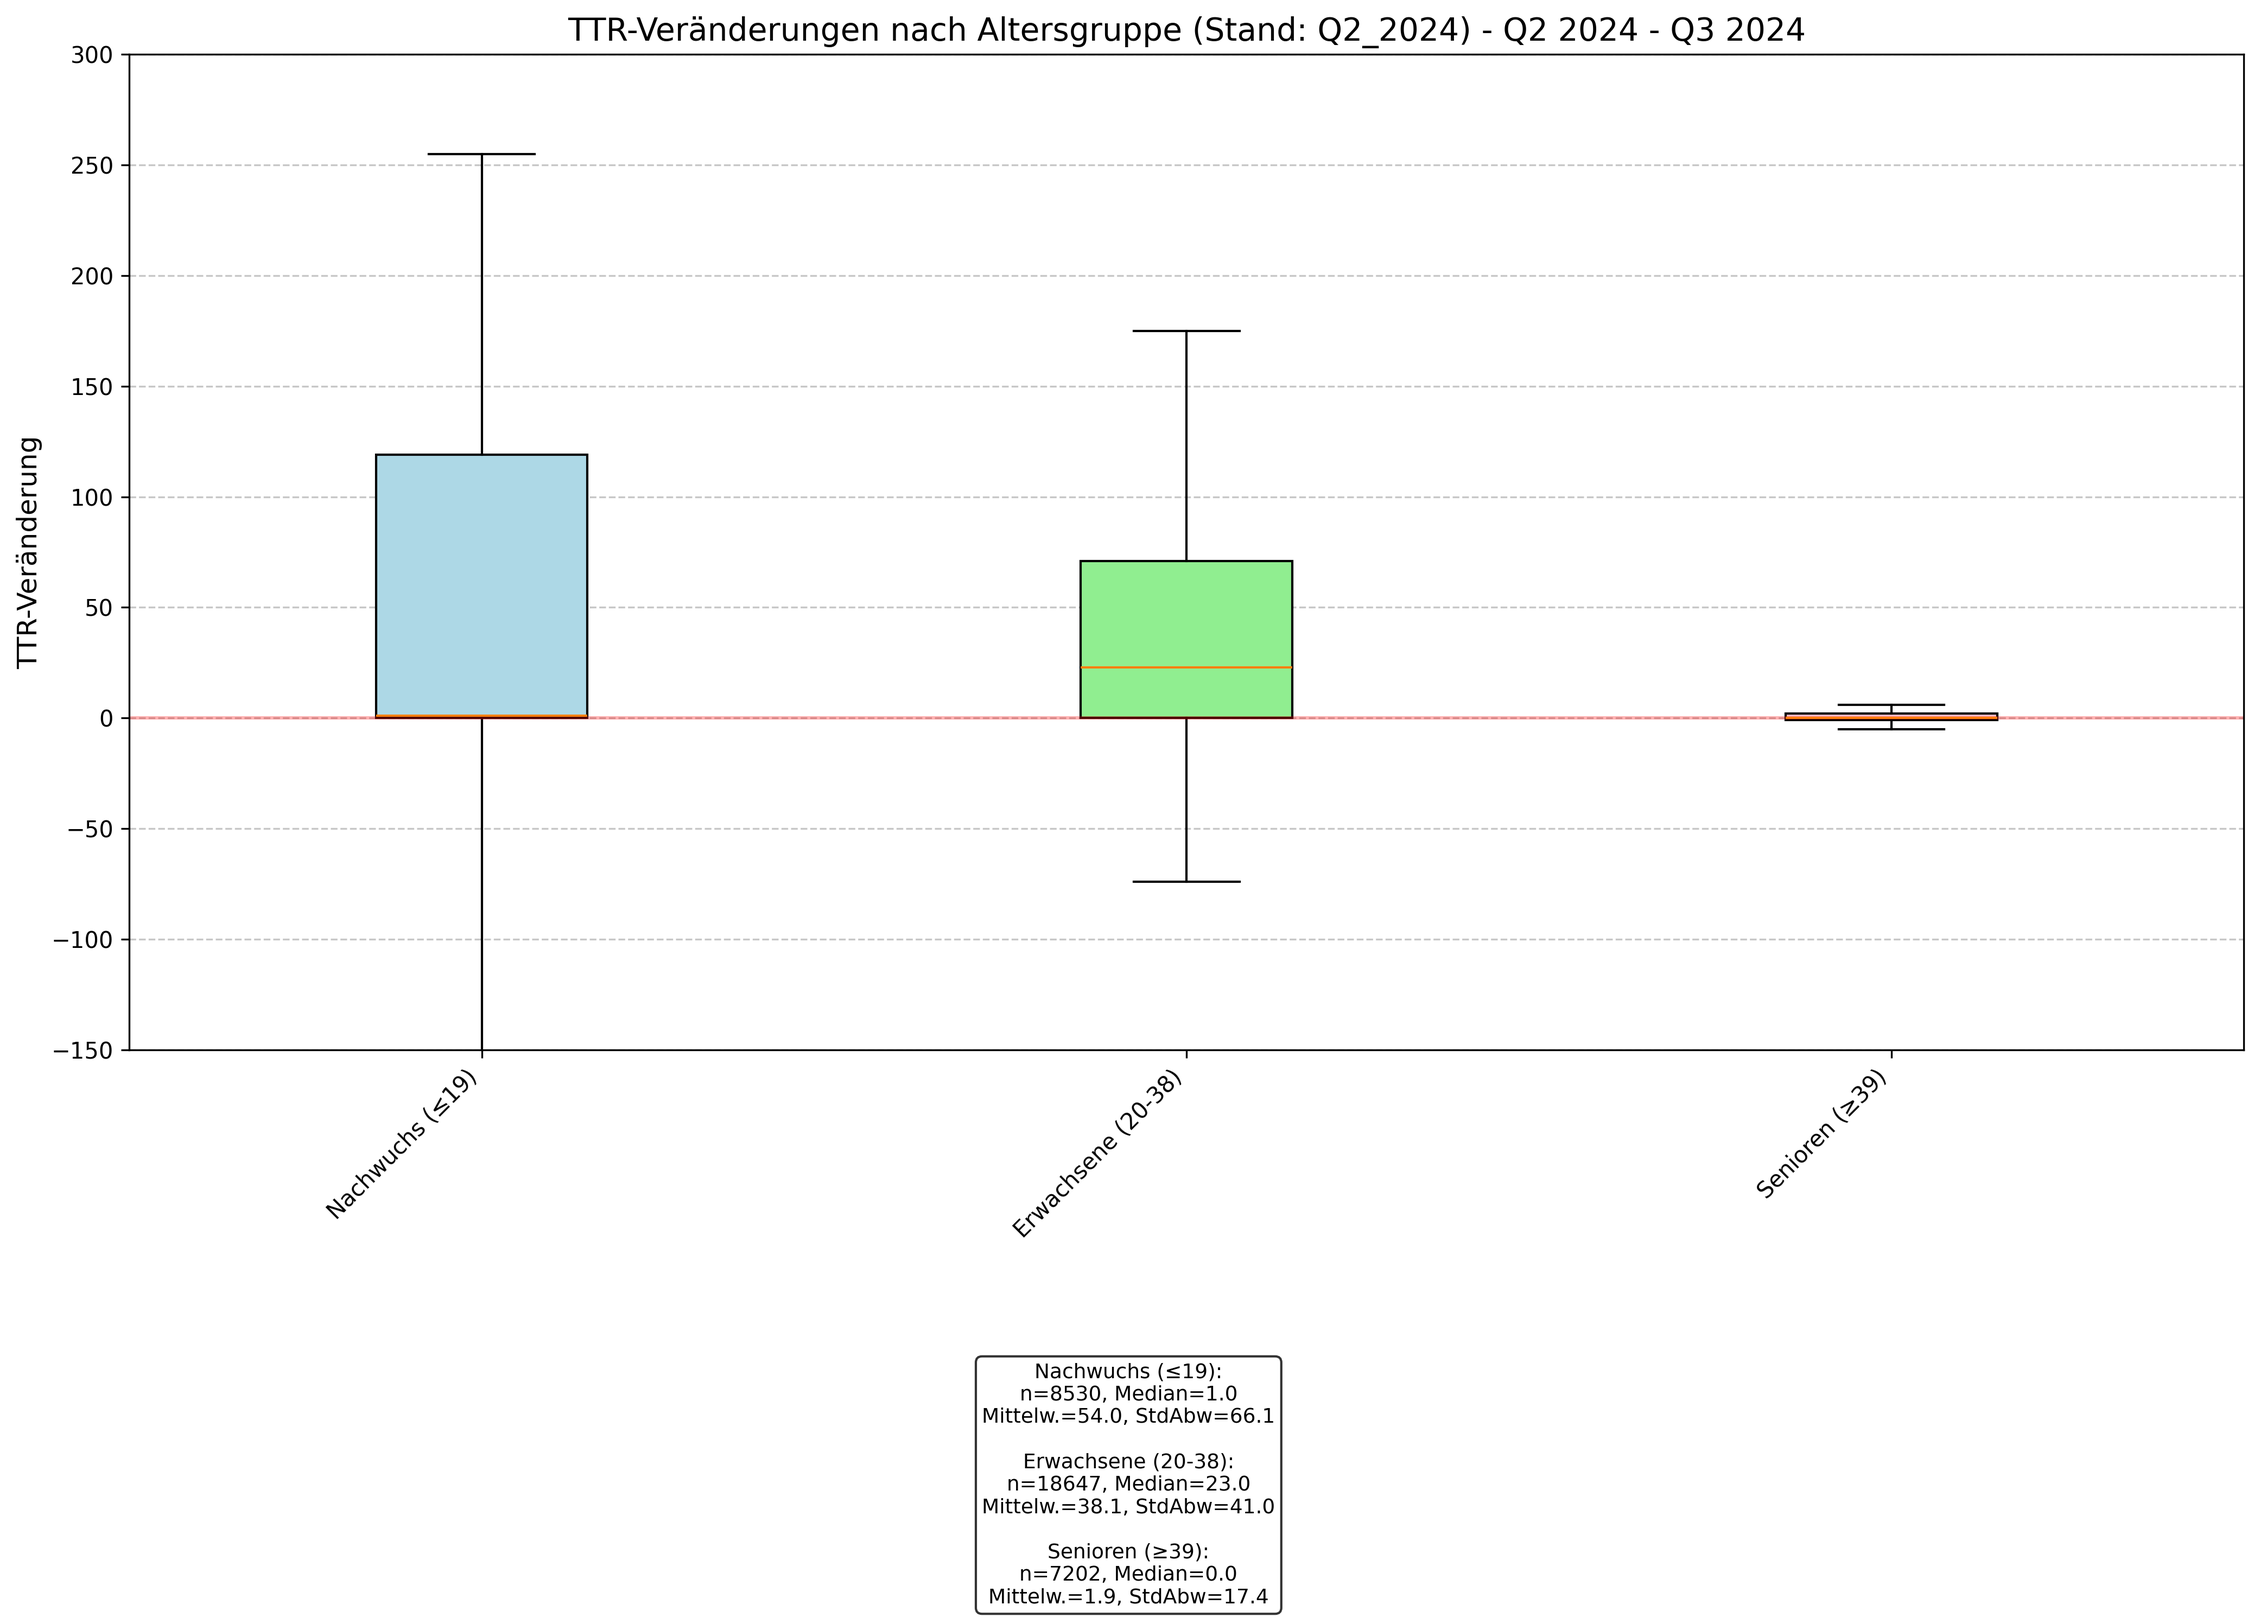
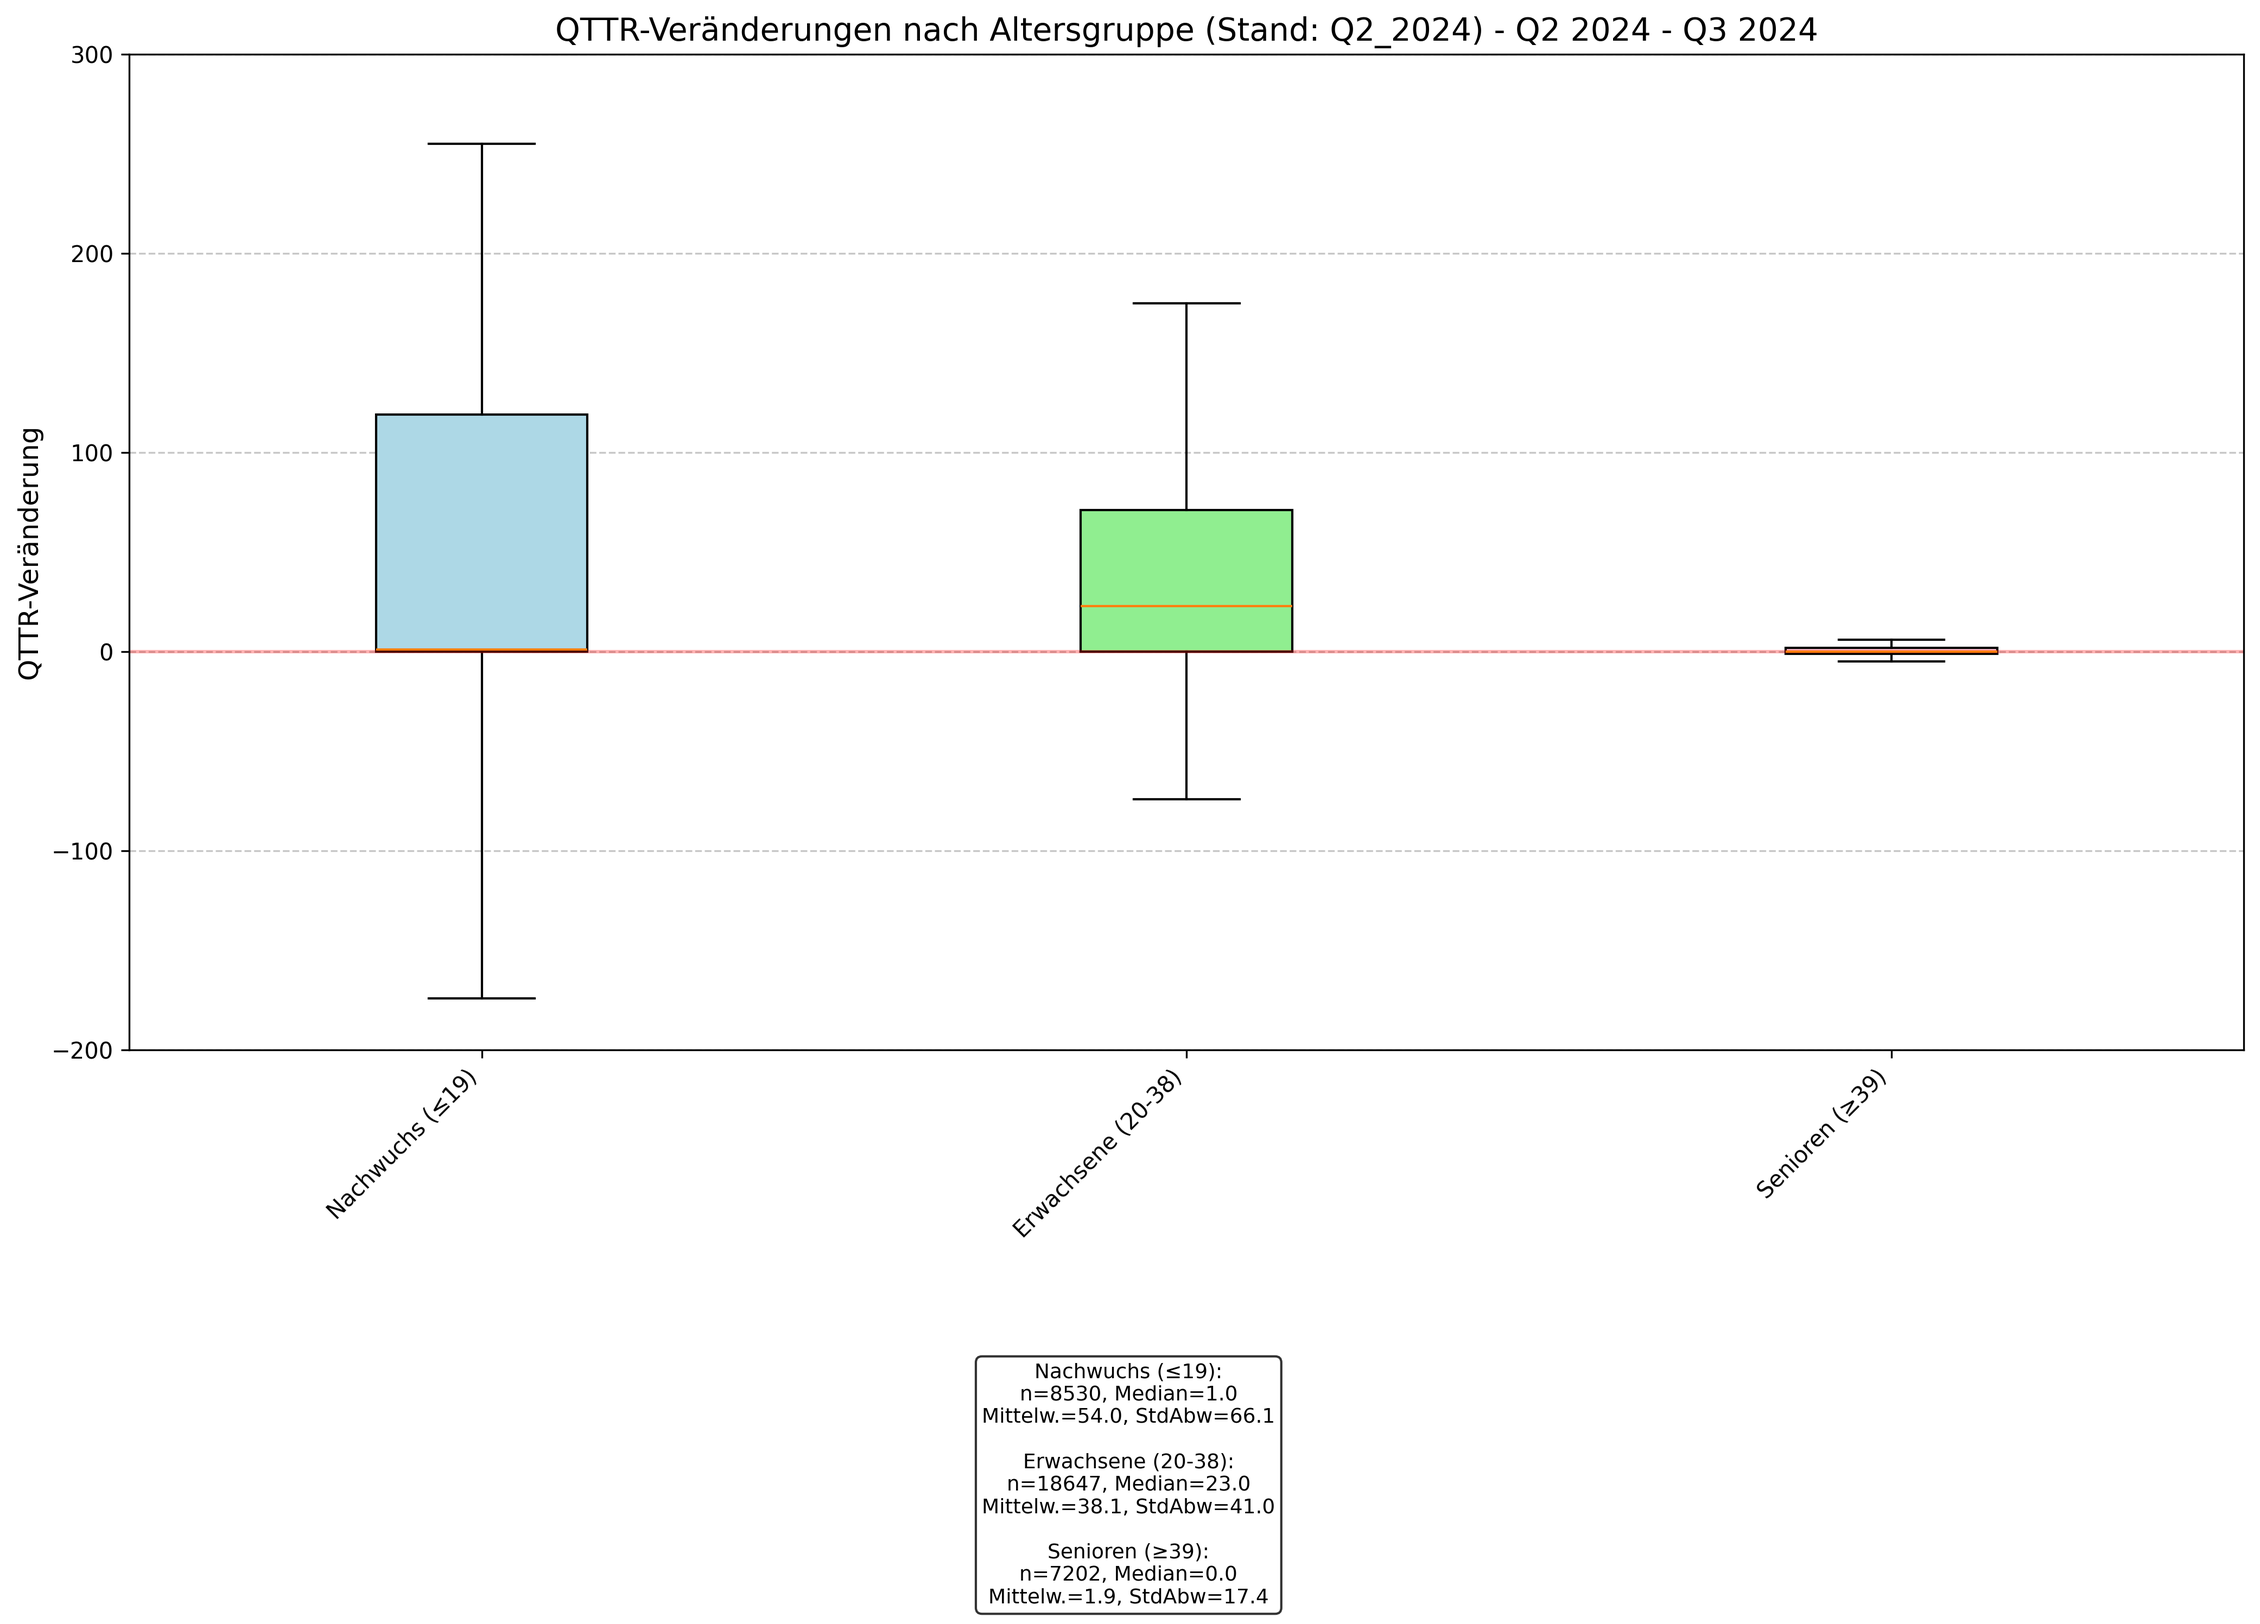
docu(Graphen & Docu): Verbesserte Graphen und die Markdown doku dazu

diff --git a/Documentation/Docu_QTTR-differenzen.md b/Documentation/Docu_QTTR-differenzen.md
@@ -1,0 +1,102 @@
+# **Identifikation großer QTTR-Veränderugnen**
+
+## **QTTR-Veränderung in den Zeiträummen**
+
+
+#### **Boxplot**
+![QTTR-Veränderung in den Zeiträummen | Boxplot](/Users/fabi/Documents/BBA/6_Semester/Projekt_BBA/QTTR-Veraenderungen-Klemm/Data_Analysis/Darstellungen_als_Bilder/QTTR_Veränderungen_in_Zeiträumen.png)
+
+
+#### **Barchart**
+![QTTR-Veränderung in den Zeiträummen | Barchart](/Users/fabi/Documents/BBA/6_Semester/Projekt_BBA/QTTR-Veraenderungen-Klemm/Data_Analysis/Darstellungen_als_Bilder/QTTR_Veränderungen_in_Zeiträumen_Barchart.png)
+
+
+---
+
+## **QTTR-Veränderung innerhalb der Altergruppen**
+
+**Altersgruppen:**
+- Nachwuchs (≤19)
+- Erwachsene (20-38)
+- Senioren (≥39)
+
+*Hierbei werden die stärksten Veränderungszeiträume angezeigt**
+
+#### **Q1 2024 - Q1 2025 | Ein Jahr Abstand**
+![QTTR-Veränderung innerhalb der Altersgruppen | Boxplot](/Users/fabi/Documents/BBA/6_Semester/Projekt_BBA/QTTR-Veraenderungen-Klemm/Data_Analysis/Darstellungen_als_Bilder/altersgruppe_Q1_2024_Q_TTR_dif_24_Q1_25_Q1.png)
+
+#### **Q1 - Q3 2024 | Halbe Jahr Abstand**
+![QTTR-Veränderung innerhalb der Altersgruppen | Boxplot](/Users/fabi/Documents/BBA/6_Semester/Projekt_BBA/QTTR-Veraenderungen-Klemm/Data_Analysis/Darstellungen_als_Bilder/altersgruppe_Q1_2024_Q_TTR_dif_24_Q1_24_Q3.png)
+*Die Veränderung von Q1 auf Q2 im Jahr 2024 ist sehr gering. Die größte Veränderung ist in der Darauffolgenden Darstellung zwischen Q2 - Q3 zu erkennen*
+
+#### **Q2 - Q3 2024 | Quartals Abstand**
+![QTTR-Veränderung innerhalb der Altersgruppen | Boxplot](/Users/fabi/Documents/BBA/6_Semester/Projekt_BBA/QTTR-Veraenderungen-Klemm/Data_Analysis/Darstellungen_als_Bilder/altersgruppe_Q2_2024_Q_TTR_dif_24_Q2_24_Q3.png)
+
+
+---
+
+## **QTTR-Veränderung innerhalb der QTTR Gruppen**
+
+**QTTR Gruppen:**
+- < 700
+- 700 - 1099
+- 1100 - 1399
+- 1400 - 1799
+- 1800 - 2199
+- 2200 +
+
+*Hierbei werden die stärksten Veränderungszeiträume angezeigt**
+
+#### **Q1 2024 - Q1 2025 | Ein Jahr Abstand**
+![QTTR-Veränderung innerhalb der QTTR-Gruppe | Boxplot](/Users/fabi/Documents/BBA/6_Semester/Projekt_BBA/QTTR-Veraenderungen-Klemm/Data_Analysis/Darstellungen_als_Bilder/ttr_gruppen_Q_TTR_dif_24_Q1_25_Q1.png)
+
+#### **Q1 - Q3 2024 | Halbe Jahr Abstand**
+![QTTR-Veränderung innerhalb der QTTR-Gruppe | Boxplot](/Users/fabi/Documents/BBA/6_Semester/Projekt_BBA/QTTR-Veraenderungen-Klemm/Data_Analysis/Darstellungen_als_Bilder/ttr_gruppen_Q_TTR_dif_24_Q1_24_Q3.png)
+*Die Veränderung von Q1 auf Q2 im Jahr 2024 ist sehr gering. Die größte Veränderung ist in der Darauffolgenden Darstellung zwischen Q2 - Q3 zu erkennen*
+
+#### **Q2 - Q3 2024 | Quartals Abstand**
+![QTTR-Veränderung innerhalb der QTTR-Gruppe | Boxplot](/Users/fabi/Documents/BBA/6_Semester/Projekt_BBA/QTTR-Veraenderungen-Klemm/Data_Analysis/Darstellungen_als_Bilder/ttr_gruppen_Q_TTR_dif_24_Q2_24_Q3.png)
+
+
+---
+
+## **QTTR-Veränderung innerhalb der Verbände**
+
+**Verbände**
+- Ausland
+- TTBW
+- Saarland
+- Nordrhein-Westfalen
+- Hessen
+- Bayern
+- Bremen
+- Rheinland-Rheinhessen
+- Thüringen
+- Berlin
+- Baden
+- Sachsen
+- Pfalz
+- Niedersachsen
+- Schleswig-Holstein
+- Brandenburg 
+- Hamburg
+- Sachsen-Anhalt
+- Mecklenburg-Vorpommern
+
+*Hierbei werden die stärksten Veränderungszeiträume angezeigt**
+
+#### **Q1 2024 - Q1 2025 | Ein Jahr Abstand**
+![QTTR-Veränderung innerhalb der Verbände | Boxplot | Teil 1](/Users/fabi/Documents/BBA/6_Semester/Projekt_BBA/QTTR-Veraenderungen-Klemm/Data_Analysis/Darstellungen_als_Bilder/verband_teil1_Q_TTR_dif_24_Q1_25_Q1.png)
+
+![QTTR-Veränderung innerhalb der Verbände | Boxplot | Teil 2](/Users/fabi/Documents/BBA/6_Semester/Projekt_BBA/QTTR-Veraenderungen-Klemm/Data_Analysis/Darstellungen_als_Bilder/verband_teil2_Q_TTR_dif_24_Q1_25_Q1.png)
+
+#### **Q1 - Q3 2024 | Halbe Jahr Abstand**
+![QTTR-Veränderung innerhalb der Verbände | Boxplot | Teil 1](/Users/fabi/Documents/BBA/6_Semester/Projekt_BBA/QTTR-Veraenderungen-Klemm/Data_Analysis/Darstellungen_als_Bilder/verband_teil1_Q_TTR_dif_24_Q1_24_Q3.png)
+*Die Veränderung von Q1 auf Q2 im Jahr 2024 ist sehr gering. Die größte Veränderung ist in der Darauffolgenden Darstellung zwischen Q2 - Q3 zu erkennen*
+
+![QTTR-Veränderung innerhalb der Verbände | Boxplot | Teil 2](/Users/fabi/Documents/BBA/6_Semester/Projekt_BBA/QTTR-Veraenderungen-Klemm/Data_Analysis/Darstellungen_als_Bilder/verband_teil2_Q_TTR_dif_24_Q1_24_Q3.png)
+
+#### **Q2 - Q3 2024 | Quartals Abstand**
+![QTTR-Veränderung innerhalb der Verbände | Boxplot | Teil 1](/Users/fabi/Documents/BBA/6_Semester/Projekt_BBA/QTTR-Veraenderungen-Klemm/Data_Analysis/Darstellungen_als_Bilder/verband_teil1_Q_TTR_dif_24_Q2_24_Q3.png)
+
+![QTTR-Veränderung innerhalb der Verbände | Boxplot | Teil 2](/Users/fabi/Documents/BBA/6_Semester/Projekt_BBA/QTTR-Veraenderungen-Klemm/Data_Analysis/Darstellungen_als_Bilder/verband_teil2_Q_TTR_dif_24_Q2_24_Q3.png)
